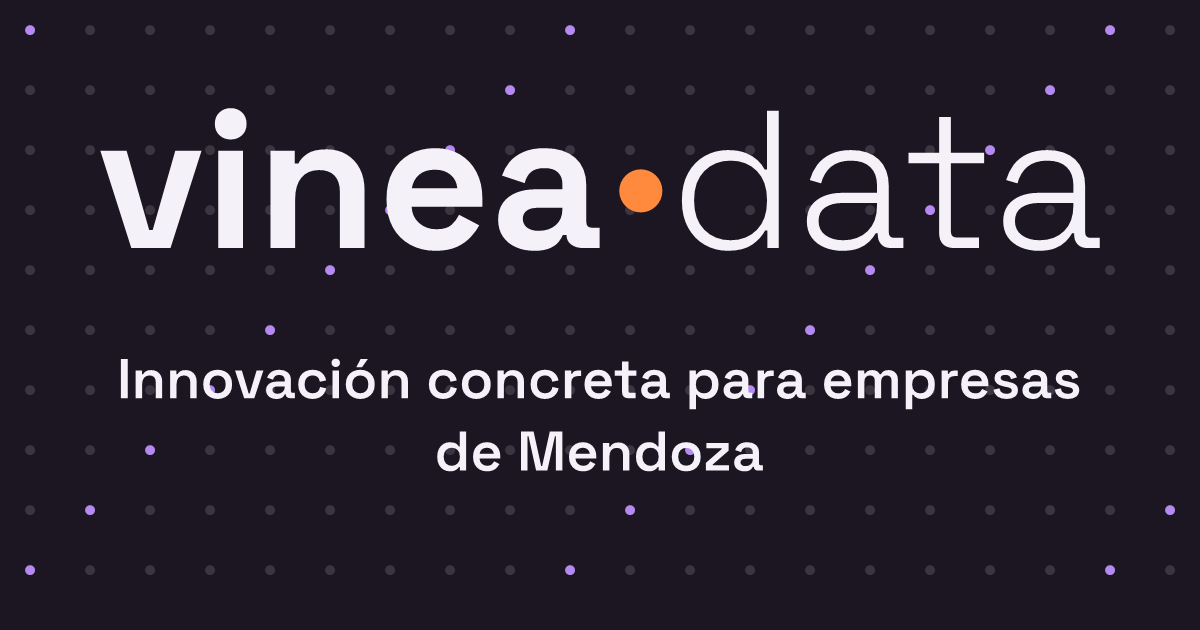
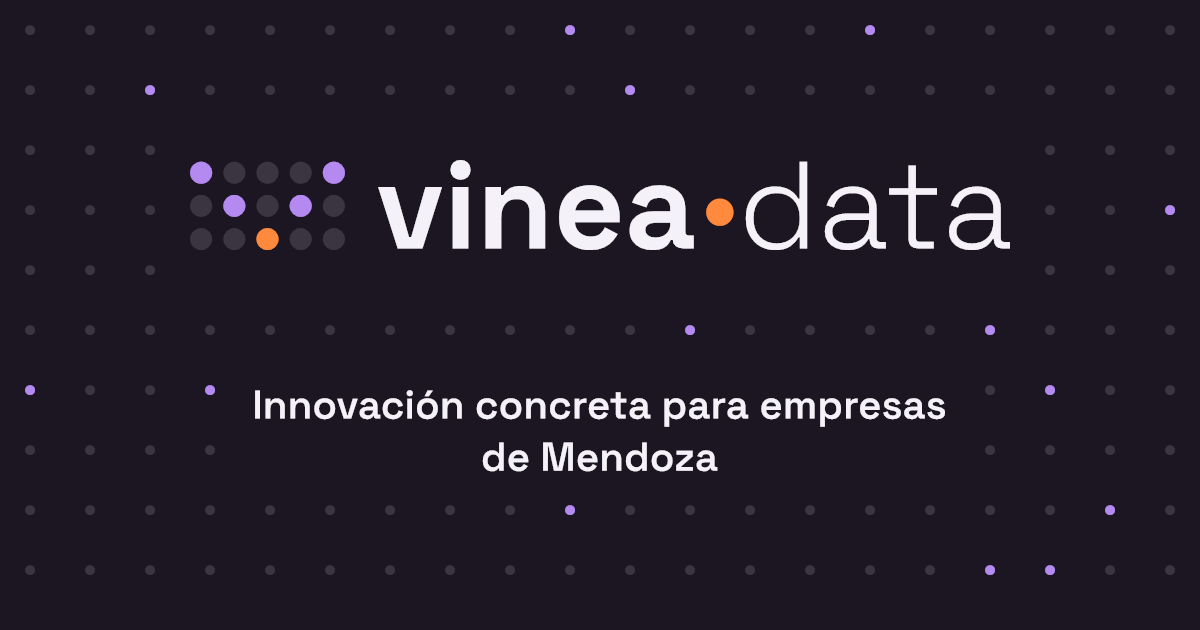
fabrica(001): og con lockup oficial y manual de marca en CLAUDE.md
Rehace la imagen de preview segun el manual de marca, que vive fuera del
repo y no estaba referenciado:

- Agrega el isotipo (grilla 5x3 de Logo.astro) junto al wordmark: la
  version Negativo del manual, no el wordmark solo.
- Respeta el resguardo de 1,5 D: la grilla de fondo ya no invade el
  lockup ni la frase.
- Alinea el alto del isotipo al alto de la d, con las bases coincidentes.
- CLAUDE.md: puntero al manual y sus reglas, para no volver a redibujar
  el logo a mano habiendo arte oficial.

El CA6 original exigia un solo brasa y premiaba la version equivocada;
queda reemplazado por CA6-bis (dos: isotipo y separador) en la Enmienda 1
de la spec. No se tocaron sitemap, robots, Base.astro ni site.ts.

diff --git a/CLAUDE.md b/CLAUDE.md
@@ -20,6 +20,25 @@ Tono: rioplatense, con voseo, directo, sin jerga técnica para el cliente. Habla
 - Tipografías: Space Grotesk (todo) e IBM Plex Mono (etiquetas, datos). Nada más.
 - Sin emojis, sin gradientes decorativos, sin sombras salvo el botón de WhatsApp.
 
+### Manual de marca (vive fuera del repo)
+`C:\VineaData\Marca  y branding\` — ojo, **dos espacios** en "Marca  y branding".
+- `Logo · Construcción y tamaños@1x.png` — módulo, resguardo, tamaños mínimos.
+- `Logo · Versiones@1x.png` — las versiones oficiales, con el **texto ya convertido a trazos**.
+
+**Antes de dibujar cualquier pieza con el logo, abrir esos dos archivos.** Ya existe arte oficial: no
+redibujar el wordmark a mano ni reconstruirlo desde la fuente.
+
+- **Módulo:** todo sale del diámetro del punto (D). Los puntos van a 1,5 D de centro a centro.
+- **Resguardo:** 1,5 D libres alrededor del logo. Nada se mete ahí, tampoco una grilla de fondo decorativa.
+- **Alineación:** el alto del isotipo es igual al alto de la "d" del wordmark, con las bases coincidentes.
+- **Un naranja por elemento:** el isotipo lleva 1 y el separador de "vinea·data" lleva 1. En el lockup
+  completo hay 2 y está bien; el "nunca dos" del manual es dentro del isotipo.
+- **Nunca:** estirar, rotar, cambiar colores, agregar sombras, ni usar la grilla completa por debajo de 32 px.
+- **Tamaños del lockup:** 110 px mínimo · 170 px firma de mail · 260 px header web.
+- **Versiones:** Principal horizontal · **Negativo (fondos oscuros, slides, redes)** · Apilado ·
+  Isotipo solo · Avatar circular · Favicon (solo la V, sin grilla) · Monocromo · Monocromo blanco.
+  Para cualquier pieza sobre fondo Tinta la versión correcta es **Negativo**.
+
 ## Verificación
 Comando que el builder y el revisor corren antes de dar algo por terminado:
 
